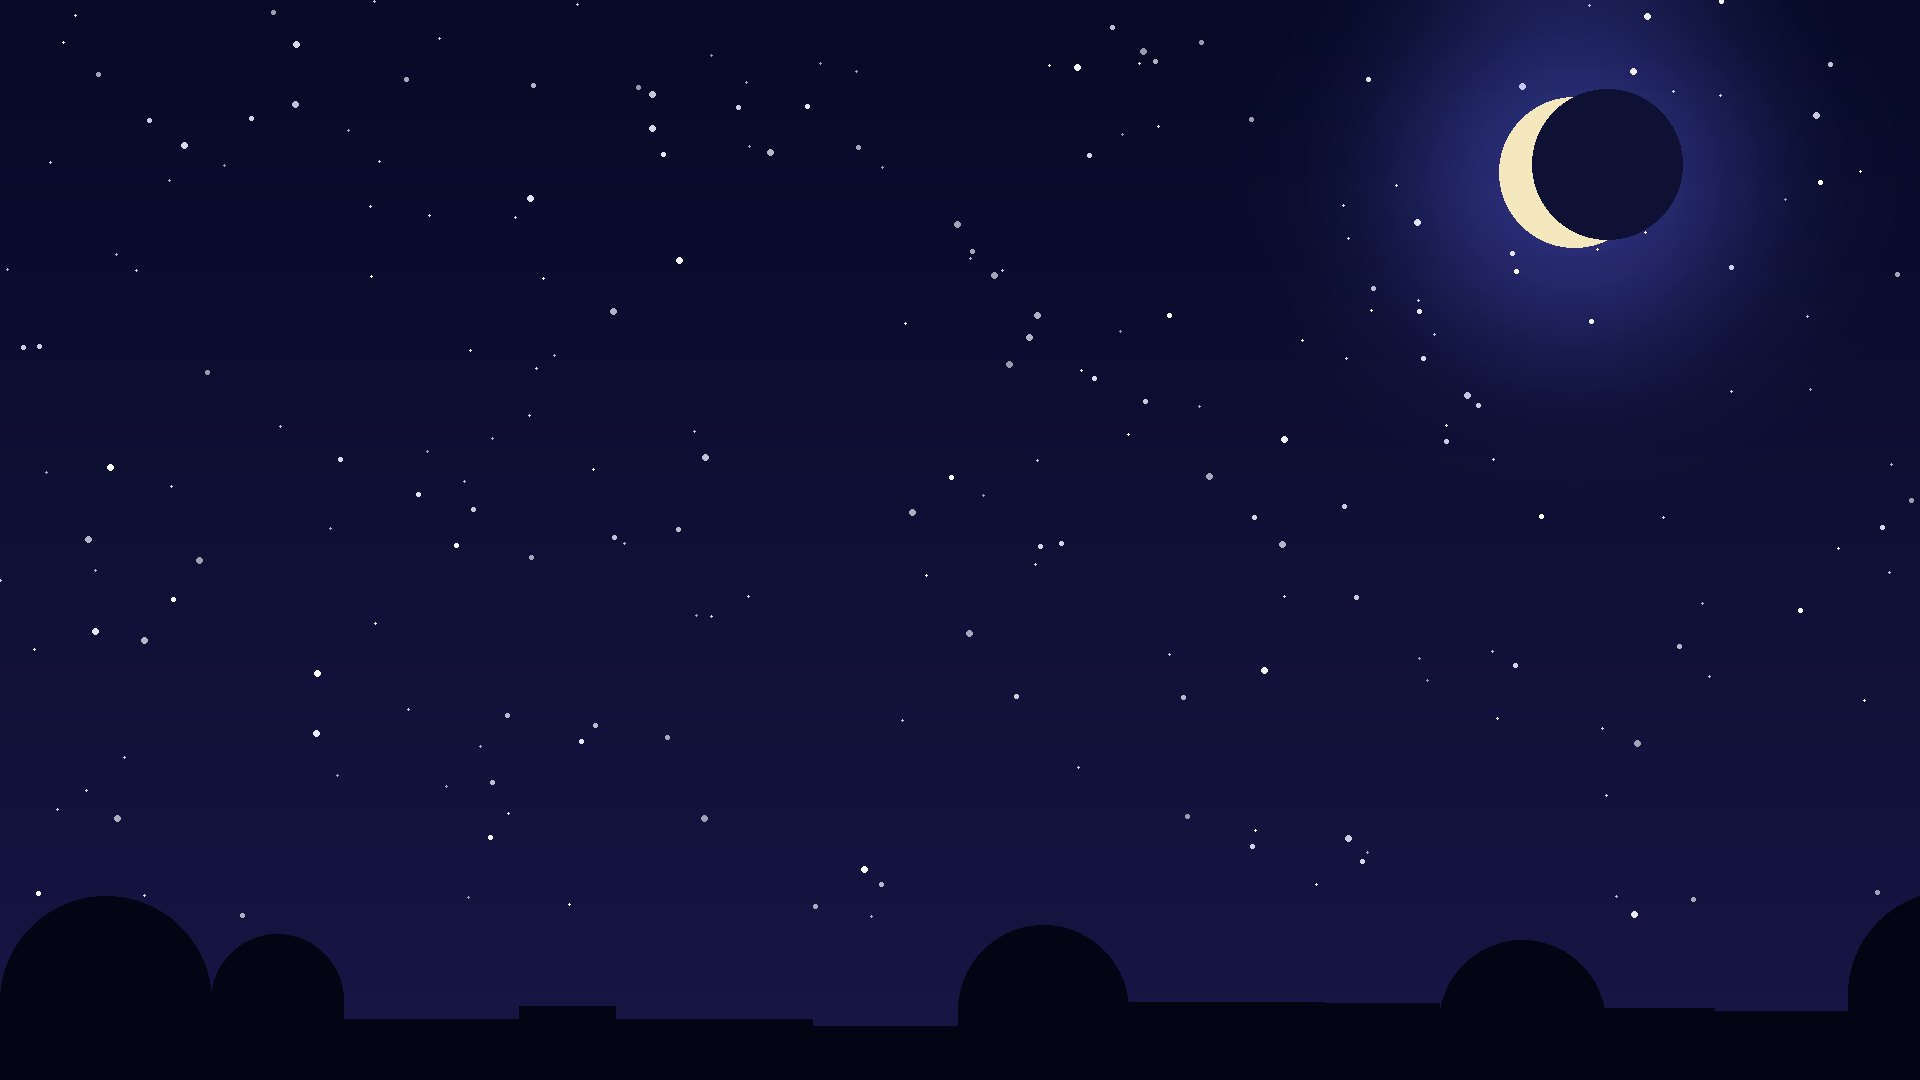
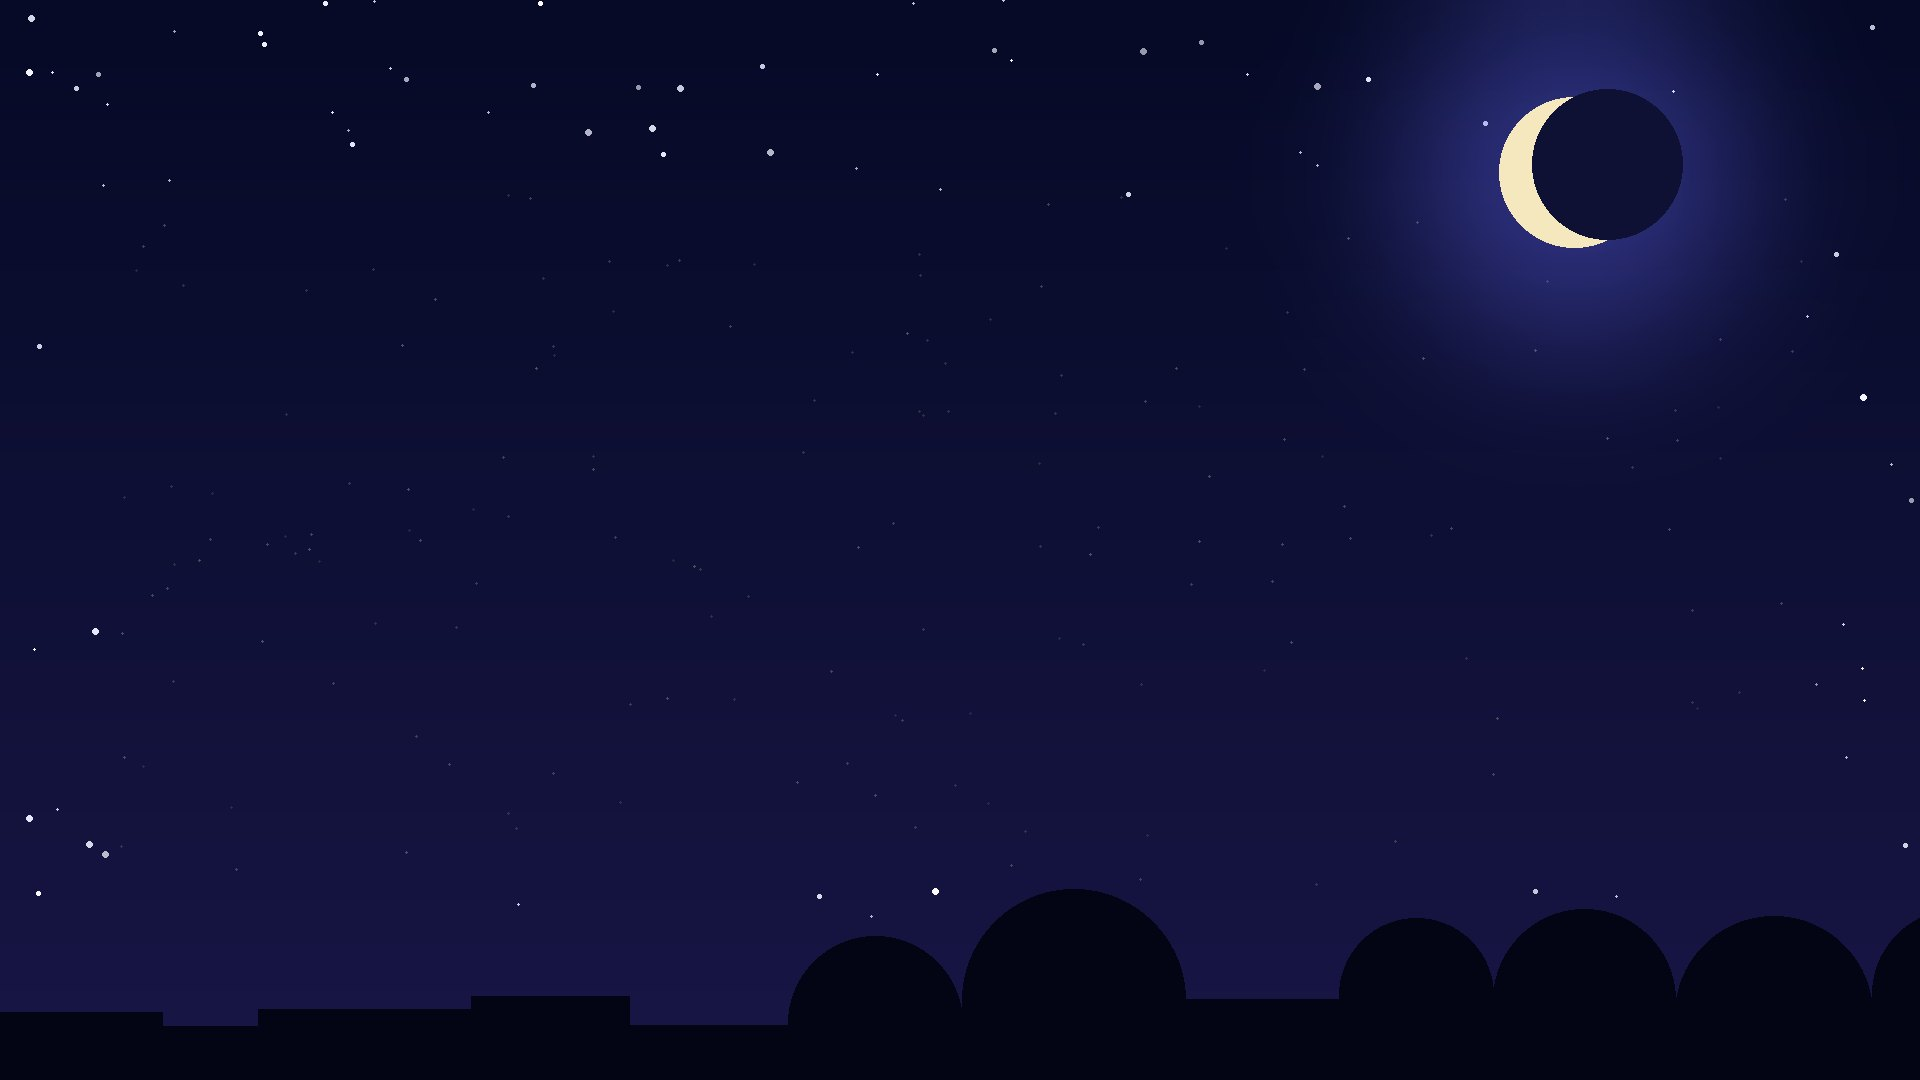
Update 4 files
Updated:
- assets/templates/bg/night_mihrab_l.jpg
- assets/templates/bg/night_mihrab_p.jpg
- lib/quran/new_project_wizard.dart
- lib/screens/lesson_editor_screen.dart

Changed region(s): [[0.0, 0.825, 0.625, 0.9472], [0.6875, 0.825, 1.0, 0.9472]]

diff --git a/lib/screens/lesson_editor_screen.dart b/lib/screens/lesson_editor_screen.dart
@@ -2614,7 +2614,7 @@ class _LessonEditorScreenState extends State<LessonEditorScreen>
                 onTap: () => _navTap(i),
                 child: Container(
                   height: math.max(52.0, _s(u, 116)),
-                  margin: const EdgeInsets.symmetric(horizontal: 1),
+                  margin: EdgeInsets.zero,
                   child: Column(
                     mainAxisAlignment: MainAxisAlignment.center,
                     children: [
@@ -2639,7 +2639,7 @@ class _LessonEditorScreenState extends State<LessonEditorScreen>
                           maxLines: 1,
                           softWrap: false,
                           style: TextStyle(
-                            fontSize: _s(u, 26, 10.5),
+                            fontSize: _s(u, 22, 9.5),
                             fontWeight: FontWeight.w600,
                             color: _tab == i ? Colors.white : KColors.editorNavIcon,
                           ),

diff --git a/lib/quran/new_project_wizard.dart b/lib/quran/new_project_wizard.dart
@@ -780,7 +780,11 @@ class _NewProjectWizardState extends State<NewProjectWizard> {
       ];
     }
     String initials(String n) {
-      final parts = n.split(RegExp(r'\s+')).where((p) => p.isNotEmpty).toList();
+      final parts = n
+          .replaceAll(RegExp(r'\([^)]*\)'), ' ')
+          .split(RegExp(r'\s+'))
+          .where((p) => RegExp(r'[A-Za-z]').hasMatch(p))
+          .toList();
       if (parts.isEmpty) return '?';
       return (parts.first[0] + (parts.length > 1 ? parts.last[0] : '')).toUpperCase();
     }
